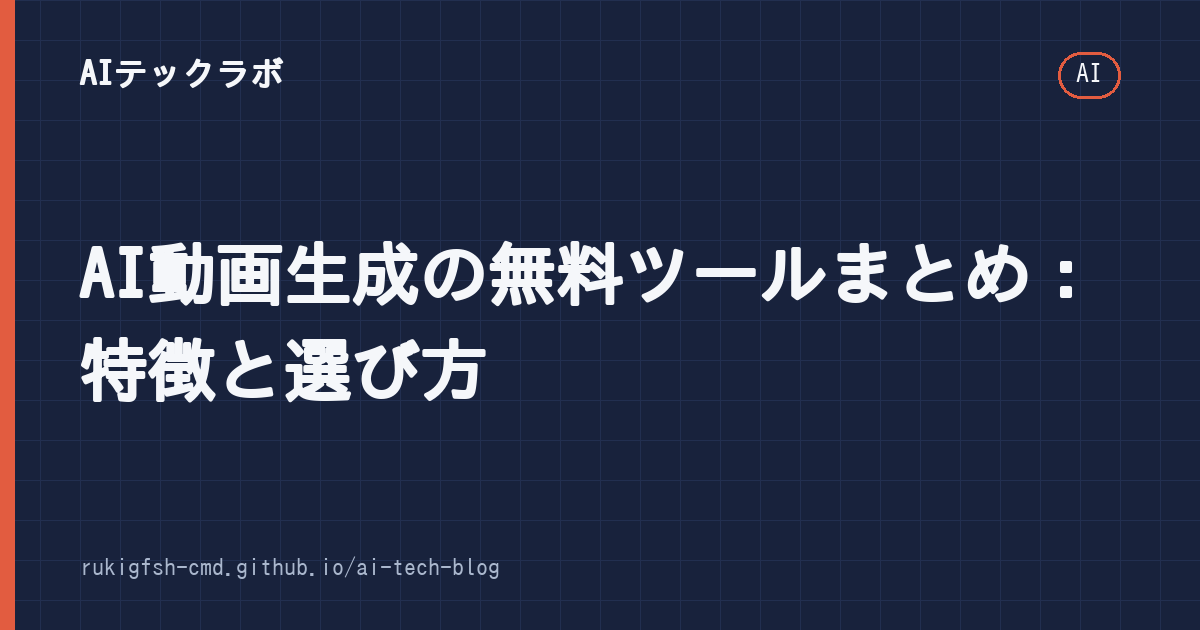
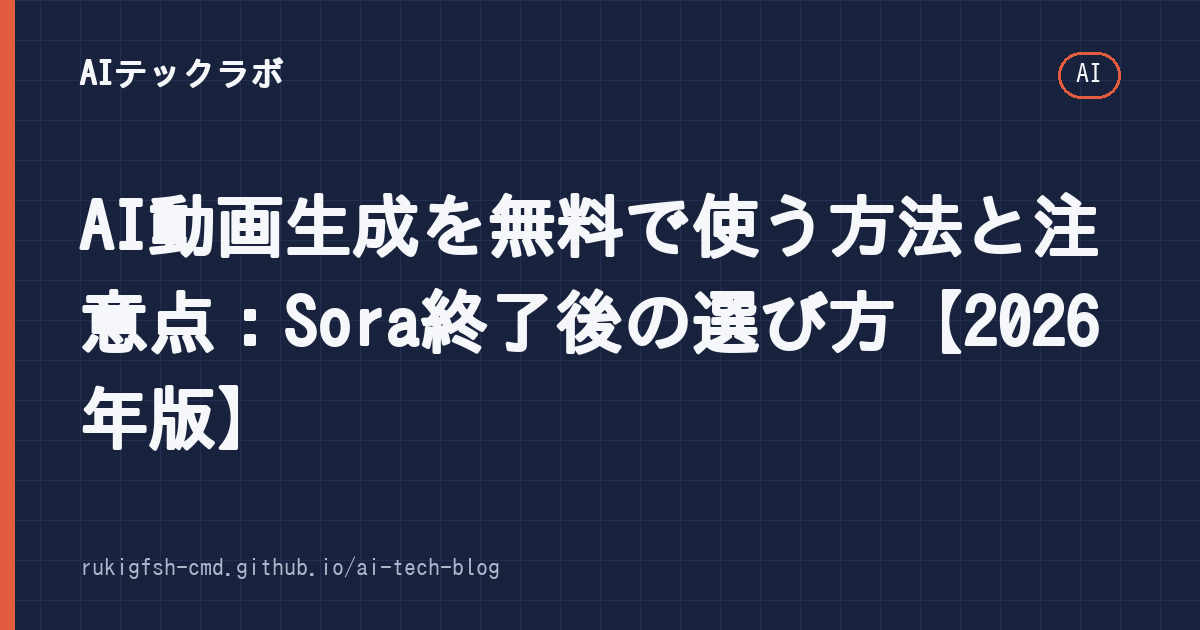
[auto-publish] AI動画生成の無料ツール記事を全面改稿（Sora終了・Gemini Omniの有料化・無料枠の実情・ffmpegでつなぐ手順を出典付きで）
Claude-Session: https://claude.ai/code/session_01LHbLrzdnCD3yue6dtgCKRJ

Changed region(s): [[0.0617, 0.3016, 0.925, 0.7238]]

diff --git a/_posts/2026-09-03-ai-動画生成-無料ツール.md b/_posts/2026-09-03-ai-動画生成-無料ツール.md
@@ -1,8 +1,9 @@
 ---
 layout: "post"
-title: "AI動画生成の無料ツールまとめ：特徴と選び方"
+title: "AI動画生成を無料で使う方法と注意点：Sora終了後の選び方【2026年版】"
 date: "2026-09-03 00:00:00 +0900"
-description: "AI動画生成無料ツールで検索する人向け。Top10のサービスを比較・解説し、初心者でも簡単に動画作成が始められる方法を紹介します"
+last_modified_at: 2026-11-26
+description: "Soraの終了やGeminiの動画生成の有料化で、無料で使えるAI動画生成は大きく変わりました。2026年11月時点の無料枠の実情、透かし・商用利用の注意、ローカルで動かす選択肢、短いクリップをつなぐ手順をまとめます。"
 categories:
   - AI
 tags:
@@ -11,98 +12,174 @@ tags:
   - 無料ツール
 author: "AIテックラボ編集部"
 image: "/assets/images/ai-動画生成-無料ツール.png"
+pr: false
 ---
 
-## 目次
+「AIで動画を作ってみたいけれど、まずは無料で試したい」という人向けに、2026年11月時点で無料で使えるAI動画生成の実情をまとめました。
 
-1. [はじめに：AI動画生成で何ができるのか？](#はじめにai動画生成で何ができるのか)
-2. [なぜ無料AI動画生成ツールを使うべきか？](#なぜ無料ai動画生成ツールを使うべきか)
-3. [Top5無料AI動画生成ツールの徹底比較](#top5無料ai動画生成ツールの徹底比較)
-4. [各ツールの具体的な使い方の例](#各ツールの具体的な使い方の例)
-5. [品質を上げるためのコツ](#品質を上げるためのコツ)
-6. [FAQ（よくある質問）](#faqよくある質問)
+先に結論を書きます。
 
----
+- **2026年に状況が大きく変わった**: OpenAI の Sora はアプリとWeb版が2026年4月26日に終了しました。Google の Gemini アプリの動画生成は、無料プランでは使えません（有料プランのみ）。
+- **無料で試せるのは「短く・透かし入り・商用不可」が基本**: Kling AI などに無料枠はありますが、多くは数秒の動画・透かし入りで、商用利用は有料プランが前提です。
+- **無料のまま長く使うならローカル**: Wan 2.2 などのオープンなモデルを自分のPCで動かせば、利用料はかかりません。ただし GPU（VRAM 12GB以上が目安）と時間が必要です。
 
-## はじめに：AI動画生成で何ができるのか？
+この記事は 2026年11月26日に確認した情報です。各サービスの無料枠は数か月単位で変わるため、使う前に必ず公式の料金ページを確認してください。編集部では各サービスの動画生成を実際には試しておらず、数値は公式発表や報道・各社の解説記事にもとづきます。
 
-最近、AI技術の進化に伴い「無料で高品質なAI動画を生成できる」ツールの数が急増しています。本記事では、実際に使える無料ツールを厳選して比較・解説します。
+## 2026年に何が変わったか
 
-## なぜ無料AI動画生成ツールを使うべきか？
+### Sora は終了（アプリ・Web版は2026年4月26日）
 
-ビジネスオーナーやクリエイターは、動画制作コストを削減したい心理があります。
-- 撮影設備がなくてもプロのような動画を作れる
-- 脚本、ナレーション、映像まで自動生成される
-- 月数千円のサブスクリプション不要で始められる
+OpenAI の動画生成アプリ「Sora」は、2026年3月に終了が発表され、**2026年4月26日にアプリとWeb版の提供を終えました**。OpenAI のヘルプによると、API はそれより後の2026年9月24日に終了する予定とされていました（[OpenAI ヘルプ: Sora の提供終了について](https://help.openai.com/en/articles/20001152-what-to-know-about-the-sora-discontinuation)、[CBS News](https://www.cbsnews.com/news/sora-ai-openai-discontinues/)、[Axios](https://www.axios.com/2026/03/24/openai-discontinue-sora-video-app)）。
 
-ただし注意点もあります：
-- 無料版には機能制限がある（解像度低下・ウォーターマーク等）
-- 利用規約の確認が必須（商用利用可否など）
-- AI特有の不具合（手の変形・意味のない動きなど）が発生しやすい
+「Sora を無料で使う方法」を紹介する記事はまだ多く残っていますが、今は使えません。
 
-## Top5無料AI動画生成ツールの徹底比較
+### Gemini の動画生成は Veo から「Gemini Omni」へ。無料版は対象外
 
-### 1. InVideo AI
-- **特徴**：テキストからYouTube形式の動画を自動生成
-- **無料枠**：月3分間のクレジット、720pの出力
-- **おすすめ度**：★★★★★
-- **向いている人**：YouTubeチャンネル運営者
+Google は2026年5月の Google I/O で、新しい動画生成モデル「Gemini Omni」を発表しました。Gemini アプリの動画生成は Veo 3.1 から Omni に置き換わり、会話しながら動画を直せるのが特徴です（[SHIFT AI TIMES](https://shift-ai.co.jp/blog/58610/)、[AI Revolution](https://ai-revolution.co.jp/media/what-is-gemini-omni/)）。
 
-### 2. Pictory AI
-- **特徴**：スクリプト→映像→ナレーションまで自動生成
-- **無料枠**：月3分間のクレジット、15分間の動画制作可能
-- **おすすめ度**：★★★★☆
-- **向いている人**：マーケティング担当者
+使えるのは Google AI Plus・Pro・Ultra などの**有料プランの18歳以上のユーザー**で、無料プランでは使えません。2026年7〜8月には、未加入のユーザーが最大10本まで無料で作れる期間限定のキャンペーンがありましたが、すでに終わっています（[PC Watch](https://pc.watch.impress.co.jp/docs/news/2129264.html)）。1日に作れる本数は、プランや時期によって記事ごとに書かれている数字が違うため、ここでは断定しません。
 
-### 3. Fliki AI
-- **特徴**：音声からアニメーション動画を生成
-- **無料枠**：無制限な音声変換、高解像度出力
-- **おすすめ度**：★★★☆☆
-- **向いている人**：TTS動画クリエイター
+Gemini のプラン全体の違いは「[Geminiの特徴と使い方：無料版でできることと有料プランの違い]({% post_url 2026-10-02-gemini-google-ai-特徴 %})」にまとめています。
 
-### 4. D-ID
-- **特徴**：リアルなニュースキャスター風のAIアバター
-- **無料枠**：月25分間の生成、商用利用不可
-- **おすすめ度**：★★★☆☆
-- **向いている人**：教育コンテンツ作成者
+## 無料で試せる主なサービス（2026年11月時点）
 
-### 5. HeyGen（無料トライアル）
-- **特徴**：業界最高峰の品質・多言語対応
-- **無料枠**：1分間のクレジットのみ（月間リミットあり）
-- **おすすめ度**：★★★★★
-- **向いている人**：本格的に動画制作を始める人
+「無料」といっても、**毎日もらえるクレジット**なのか、**最初に1回だけもらえるお試し分**なのかで、使える量がまったく違います。代表的なサービスを、わかっている範囲で整理しました。
 
-## 各ツールの具体的な使い方の例
+| サービス | 無料枠のタイプ | 無料で作った動画の扱い | 備考 |
+|---|---|---|---|
+| Kling AI | 毎日のクレジット（66クレジット/日とする記事が多い） | 透かしあり・商用不可 | 付与量はアカウントや時期で変わるという報告あり |
+| Runway | 最初に1回だけ（125クレジット） | 透かしあり | Gen-4.5 は1秒あたり12クレジット＝約10秒分 |
+| Hailuo AI（MiniMax） | 登録時のお試しクレジット（有効期限が短い） | 透かしあり・商用は有料プランのみ | 毎日のボーナスの有無は記事によって違う |
+| Adobe Firefly | 無料プランで動画生成を回数限定で試せる | 商用利用の条件は公式で確認 | Adobe ID が必要 |
+| Gemini（Gemini Omni） | 無料プランでは使えない | ― | 有料プラン（Google AI Plus 以上） |
+| Sora | 終了 | ― | 2026年4月26日に提供終了 |
 
-InVideo AIの場合：
-1. https://invideo.ai にアクセス
-2. 「Create Video」を選択
-3. テーマを入力（例：「健康食の重要性」）
-4. トーンと言語選択（英語→English、日本語→Japanese）
-5. 生成されたスクリプトを編集
-6. アバターや画像・映像素材から選択
-7. ナレーション音声の録音またはTTS利用
+出典: Kling は [Marc Andrews の検証記事](https://marcandrews.com/kling-ai-free-plan-2026-what-66-credits-buys/)・[eesel AI](https://eesel.ai/blog/kling-ai-pricing)、Runway は [Dreamina（CapCut）の比較記事](https://dreamina.capcut.com/ai-video/free-ai-video-generators-recurring-credits-vs-trials-2026)・[Scrimba](https://scrimba.com/articles/free-ai-video-generators-2026/)、Hailuo は [Costbench](https://costbench.com/software/ai-video-generators/hailuo-ai/free-plan/)・[WaveSpeed](https://wavespeed.ai/blog/cost-and-billing/hailuo-ai-pricing-2026/)、Adobe Firefly は [Adobe ヘルプ](https://helpx.adobe.com/jp/firefly/using/firefly-generation-credits-for-third-party-models-jp.html)・[miralab](https://miralab.co.jp/media/adobe_firefly_videomodel/)。いずれも2026年の記事で、公式の料金ページの数字とずれている可能性があります。
 
-Pictoryの場合：
-1. Googleスプレッドシートにスクリプトを入力
-2. 「AI Video Generator」ツールを選択
-3. スタイル（アニメーション・ライブアクションなど）を指定
-4. 自動で映像とナレーションが合成される
+### 無料枠でどれくらい作れるか
 
-## 品質を上げるためのコツ
+無料枠で作れるのは、だいたい**5〜10秒のクリップを数本**です。たとえば Runway の無料分（125クレジット）は、Gen-4.5（1秒12クレジット）なら約10秒ぶんで使い切ります。
 
-- **プロンプトの具体性**：「猫が飛び跳ねる」ではなく、「黒猫が壁からジャンプして空中で回転する」のように詳細に
-- **素材の統一感**：同じ色調・フォント・スタイルのものを選ぶ
-- **手動編集**：AI生成分はどうしても平気な不具合がある。Adobe After Effectsなどで修正する
-- **音声品質**：無料TTSだと耳障りがあることが多い。VoiceMeeterなどのソフトで加工するのが基本
+「1分の動画を無料で丸ごと作る」のは、今の無料枠では現実的ではありません。無料枠は、**どのサービスの絵作りが自分の用途に合うかを見比べるため**に使うのがおすすめです。
 
-## FAQ（よくある質問）
+### 「テキストから映像」と「アバター・テンプレート型」は別物
 
-Q1. 完全無料で高品質なツールはあるのか？
-A2. 現時点ではありません。ただしHeyGenの無料トライアルを巧みに利用する人はいます。
+AI動画のツールには、大きく2つの種類があります。
 
-Q2. 商用利用できる無料ツールの代表は？
-A2. InVideo AI（クレジット表示のみ）、Pictory AI（同条件）。ただし品質は有料版に劣ります。
+1. **映像生成型**（Kling・Runway・Hailuo・Gemini Omni など）: 文章や画像から、新しい映像そのものを作る。数秒の印象的なカットが得意。
+2. **アバター・テンプレート型**（HeyGen・D-ID・InVideo・Pictory・Fliki など）: 台本から、話すアバターや素材映像＋ナレーションの「説明動画」を組み立てる。解説動画や社内向けの動画が得意。
 
-Q3. AI動画と本物の映像を見分ける方法はあるか？
-A2. 動きの滑り・照明の不自然さ・背景の崩れなど、AI特有の痕跡があります。ただし一般ユーザーでは見分けがつかないレベルまで進化しています。
+「YouTube の解説動画を作りたい」なら2の方が向いていて、「SNS で目を引く数秒の映像がほしい」なら1が向いています。2のタイプも多くは無料プランかお試しがありますが、無料で書き出せる長さ・透かし・商用利用の条件はサービスごとに違い、よく変わるため、使う前に各社の料金ページで確認してください。
+
+## 無料枠を使うときの注意点
+
+### 透かし（ウォーターマーク）を消して使わない
+
+無料プランで作った動画には、ほとんどの場合サービスのロゴ（透かし）が入ります。**透かしを消すツールで消して使うのは、多くのサービスの規約違反**になるので避けてください。透かしなしで使いたいなら、有料プランにするか、透かしの入らないローカル生成を選びます。
+
+### 商用利用は「無料プランは不可」が基本
+
+Kling や Hailuo では、無料プランで作った動画は商用利用できず、商用で使えるのは有料プランからとされています（出典は上の表を参照）。収益化した YouTube チャンネルや広告、販売する商品に使うなら、**有料プランの規約で商用利用が認められているか**を必ず確認してください。
+
+### 人物・キャラクター・ブランドの扱い
+
+- 実在の人物の顔や声に似せた動画は、肖像権やパブリシティ権の問題になりえます。
+- アニメや映画のキャラクター、他社のロゴに似せた動画は、著作権・商標権の問題になりえます。
+- AI生成物と著作権の考え方は、文化庁の「[AIと著作権について](https://www.bunka.go.jp/seisaku/chosakuken/aiandcopyright.html)」がまとまっています。
+
+AIで作った画像や動画を販売する場合のルールは、「[AI画像の販売方法：販売先ごとの規約と始め方・注意点]({% post_url 2026-09-07-ai画像-販売-方法 %})」も参考にしてください。
+
+### 入力した画像・文章の扱い
+
+自分の写真や社内の資料を入れる場合は、そのデータが学習に使われるか・どこに保存されるかを、各サービスのプライバシーポリシーで確認しましょう。気になるなら、次のローカル生成が安心です。
+
+## 無料のまま使い続けるなら「ローカル生成」
+
+自分のPCで動画生成モデルを動かせば、クレジットも透かしもありません。代表的なのは次の2つです。
+
+- **Wan 2.2**（Alibaba）: 2025年7月公開。Apache 2.0 ライセンスで、商用利用も含めて無料で使えるとされています。ASCII の検証では、RTX 4070（VRAM 12GB）で 5B モデルは動いたものの、メモリのやりくりが必要で生成に時間がかかり、14B モデルは12GBでは現実的でなかったと報告されています（[週刊アスキー](https://weekly.ascii.jp/elem/000/004/316/4316324/)）。
+- **LTX-2 / LTX-2.3**（Lightricks）: NVIDIA の案内では、RTX 5090（32GB）で720p・4秒のクリップを約25秒で作れる一方、VRAM を多く使います（[NVIDIA: Quick Start Guide For LTX-2 In ComfyUI](https://www.nvidia.com/en-gb/geforce/news/rtx-ai-video-generation-guide)）。12GB の GPU でも解像度を抑えれば試作できたという報告があります（[週刊アスキー](https://weekly.ascii.jp/elem/000/004/387/4387092/2/)）。ライセンス条件はモデルごとに公式で確認してください。
+
+どちらも ComfyUI（ノードをつないで画像・動画を作る無料ソフト）から使うのが一般的です。VRAM が足りないときの対策は「[VRAM不足を解決する方法]({% post_url 2026-10-12-vram-不足-解決-方法 %})」で、ノートPCで GPU を足す方法は「[外付けGPU（eGPU）の始め方]({% post_url 2026-10-13-外付けgpu-egpu-接続 %})」で解説しています。
+
+| | クラウドの無料枠 | ローカル生成 |
+|---|---|---|
+| 費用 | 0円（量はわずか） | 0円（電気代のみ。GPU は必要） |
+| 透かし | ほぼ入る | 入らない |
+| 商用利用 | 無料プランは不可が多い | モデルのライセンス次第（Wan 2.2 は Apache 2.0） |
+| 画質・手軽さ | 高画質・ブラウザだけで使える | 設定が必要。高画質ほど高性能な GPU が必要 |
+
+## 短いクリップをつないで1本の動画にする（ffmpeg）
+
+無料枠やローカル生成で作れるのは数秒のクリップです。何本か作ったら、無料の動画変換ソフト **ffmpeg** で1本にまとめられます。以下のコマンドは、編集部が ffmpeg 6.1 でテスト用の映像を使って実行し、動くことを確認しました（Windows でも Mac でも同じコマンドです）。
+
+### 1. 解像度と形式をそろえる
+
+サービスごとに解像度やフレームレートが違うと、そのままではつなげません。まず、すべて 1280×720・24fps にそろえます。
+
+```bash
+# 音声つきのクリップ
+ffmpeg -i clip1.mp4 -vf "scale=1280:720:force_original_aspect_ratio=decrease,pad=1280:720:(ow-iw)/2:(oh-ih)/2,fps=24,format=yuv420p" -c:v libx264 -crf 20 -c:a aac -ar 48000 -ac 2 01.mp4
+
+# 音声のないクリップ（無音の音声を足してそろえる）
+ffmpeg -i clip2.mp4 -f lavfi -i anullsrc=r=48000:cl=stereo -vf "scale=1280:720:force_original_aspect_ratio=decrease,pad=1280:720:(ow-iw)/2:(oh-ih)/2,fps=24,format=yuv420p" -c:v libx264 -crf 20 -c:a aac -shortest 02.mp4
+```
+
+### 2. つなぐ
+
+つなぐ順にファイル名を書いた `list.txt` を作ります。
+
+```text
+file '01.mp4'
+file '02.mp4'
+```
+
+```bash
+ffmpeg -f concat -safe 0 -i list.txt -c copy joined.mp4
+```
+
+### 3. 字幕・フェード・縦長への変換
+
+```bash
+# 字幕（SRTファイル）を焼き込む
+ffmpeg -i joined.mp4 -vf "subtitles=sub.srt" -c:a copy subbed.mp4
+
+# 最初と最後にフェード（15秒の動画の例。st は開始秒）
+ffmpeg -i joined.mp4 -vf "fade=t=in:st=0:d=1,fade=t=out:st=14:d=1" -af "afade=t=in:st=0:d=1,afade=t=out:st=14:d=1" faded.mp4
+
+# 横長をショート動画向けの縦長（1080×1920）に。背景はぼかした同じ映像
+ffmpeg -i joined.mp4 -filter_complex "[0:v]scale=1080:1920:force_original_aspect_ratio=increase,crop=1080:1920,boxblur=20:2[bg];[0:v]scale=1080:-2[fg];[bg][fg]overlay=(W-w)/2:(H-h)/2" -c:v libx264 -crf 23 -c:a copy vertical.mp4
+```
+
+日本語の字幕は、PCに日本語フォントが入っていれば表示されます。
+
+## 品質を上げるプロンプトのコツ
+
+- **1カット1動作**: 「猫が窓から飛び降りて、走って、振り返る」より「黒猫が窓辺から床へ飛び降りる」のように、1回の生成では動きを1つに絞る。
+- **カメラの動きを書く**: 「ゆっくりズームイン」「横に流れるように追う」など。指定しないとカメラが不自然に揺れることがある。
+- **最初の1枚を画像で渡す**: 多くのサービスは「画像から動画」に対応しています。先に画像生成AIで構図を決めてから動かすと、狙いに近づきやすい。
+- **人の手・文字は崩れやすい**: 手のアップや看板の文字は避け、文字は後から字幕で入れる。
+
+プロンプトの基本的な考え方は「[プロンプトエンジニアリング入門]({% post_url 2026-09-27-プロンプトエンジニアリング-入門 %})」も参考にしてください。
+
+## よくある質問
+
+**Q. 完全無料で、透かしなし・商用利用OKのクラウドサービスはある？**
+
+A. 2026年11月時点で、主要なサービスにはほぼありません。透かしなし・商用利用を無料で両立したいなら、ライセンスが商用利用を認めているモデル（例: Wan 2.2）をローカルで動かすのが現実的です。
+
+**Q. Sora の代わりは？**
+
+A. 映像の質で選ぶなら、Gemini Omni（Google AI Plus 以上）や Kling・Runway の有料プランが候補です。まず各サービスの無料枠で同じプロンプトを試し、気に入ったものだけ有料にするのがおすすめです。
+
+**Q. AI で作った動画を YouTube に載せてもいい？**
+
+A. 載せること自体はできますが、YouTube はリアルに見える合成・加工コンテンツについて、投稿時の開示を求めています（[YouTube ヘルプ: 改変または合成されたコンテンツの開示](https://support.google.com/youtube/answer/14328491?hl=ja)）。収益化する場合は、使ったサービスの規約で商用利用が認められているかも確認してください。
+
+## まとめ
+
+- Sora は2026年4月に終了、Gemini の動画生成（Gemini Omni）は有料プランのみ。
+- クラウドの無料枠は「数秒・透かし入り・商用不可」が基本。用途に合うサービスを見比べる用途に向いている。
+- 無料で長く使いたい、透かしを入れたくないなら、Wan 2.2 などをローカルで動かす。GPU の VRAM は12GB以上が目安。
+- 作った短いクリップは ffmpeg で1本につなげられる。
+- 無料枠の条件はすぐ変わるので、使う前に公式の料金ページで確認する。

diff --git a/automation/state/content-audit.md b/automation/state/content-audit.md
@@ -19,7 +19,7 @@
 ## 優先度B（情報の鮮度・正確さ）
 
 - [x] `_posts/2026-09-15-gpt-4o-mini-性能.md`（2026-11-25 全面改稿。「オープンソース」「無料枠$200/月」などの誤りと危険なプロンプト例を削除。2027年1月14日のAPI終了・移行先 gpt-6-luna・料金比較・移行チェックリスト・比較スクリプト（模擬サーバーで実行確認）を出典付きで） — 2024年のモデルの記事。2026年時点での位置づけ（後継・代替モデル）を追記するか、軽量モデル比較として更新。
-- [ ] `_posts/2026-09-03-ai-動画生成-無料ツール.md` — 「2025年版」の内容。2026年時点のツールと無料枠に更新。
+- [x] `_posts/2026-09-03-ai-動画生成-無料ツール.md`（2026-11-26 全面改稿。根拠不明の無料枠の数字・ツールTop5を削除。Sora終了（2026-04-26）・Geminiの動画生成（Gemini Omni）は有料のみ・各社の無料枠のタイプ・透かし/商用利用の注意・ローカル生成（Wan 2.2/LTX-2）・ffmpegでクリップをつなぐ手順（実行確認済み）を出典付きで） — 「2025年版」の内容。2026年時点のツールと無料枠に更新。
 - [x] `_posts/2026-09-21-rtx-4070-ti-super-レビュー.md`（2026-11-24 全面改稿。架空のベンチマーク・誤った仕様（Ampere・20GB・220W）を削除し、実機未検証と明記。仕様・RTX 5070 Tiとの差（GamersNexus/Tom's Hardware/Club386）・DLSSの対応範囲・2026年の価格事情・中古の確認点を出典付きで。商品リンクなし pr: false） — 実機検証をしていないのに検証したように読める表現を直す。ベンチマーク値に出典を付ける。
 - [x] `_posts/2026-10-13-外付けgpu-egpu-接続.md`（2026-11-23 全面改稿。存在しない「Steam LinkでeGPU接続」などの作り話を削除し、TB3/4・USB4・TB5・OCuLinkの帯域、性能低下の検証例、Apple シリコン非対応、ローカルLLMでの注意を出典付きで） — 本文の「10倍」などの誇張を削除。対応条件（Thunderbolt / USB4 / OCuLink）を正確に。
 - [ ] `_posts/2026-10-02-ロジクール-マウス-mx.md`、`_posts/2026-09-04-ゲーミングpc-自作-初心者.md` — 型番・価格の鮮度を確認し、商品リンクを include に。
